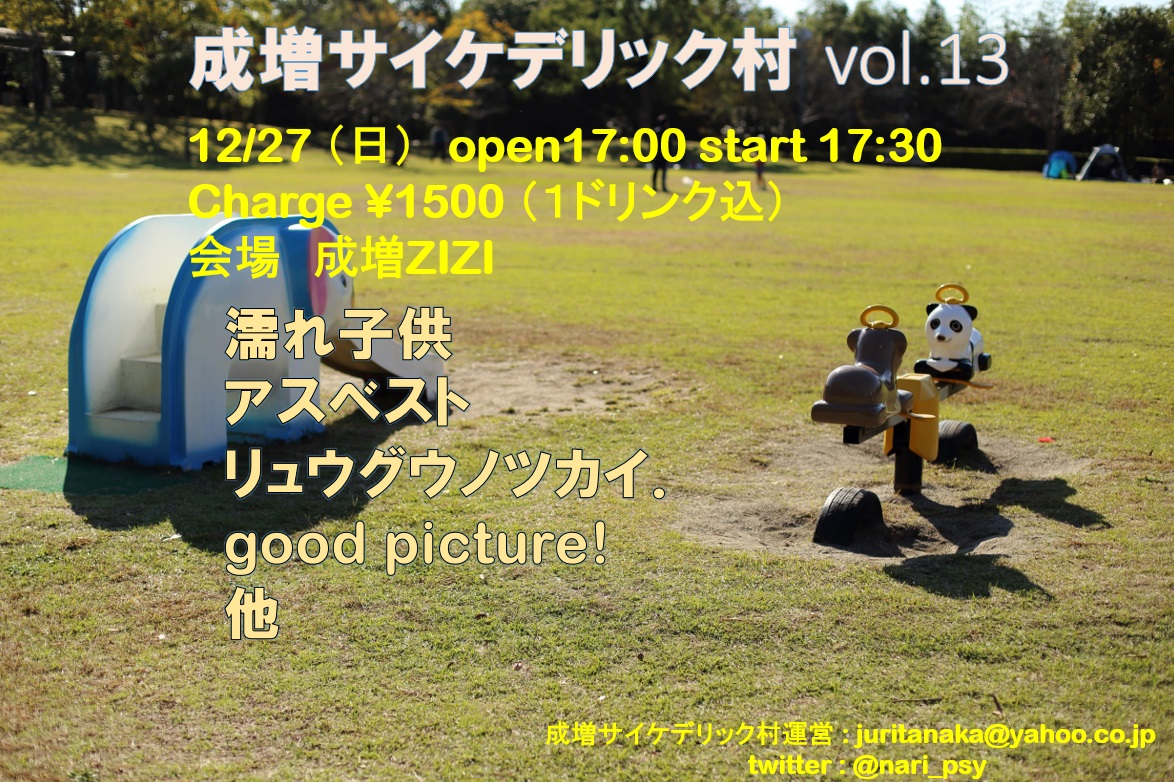
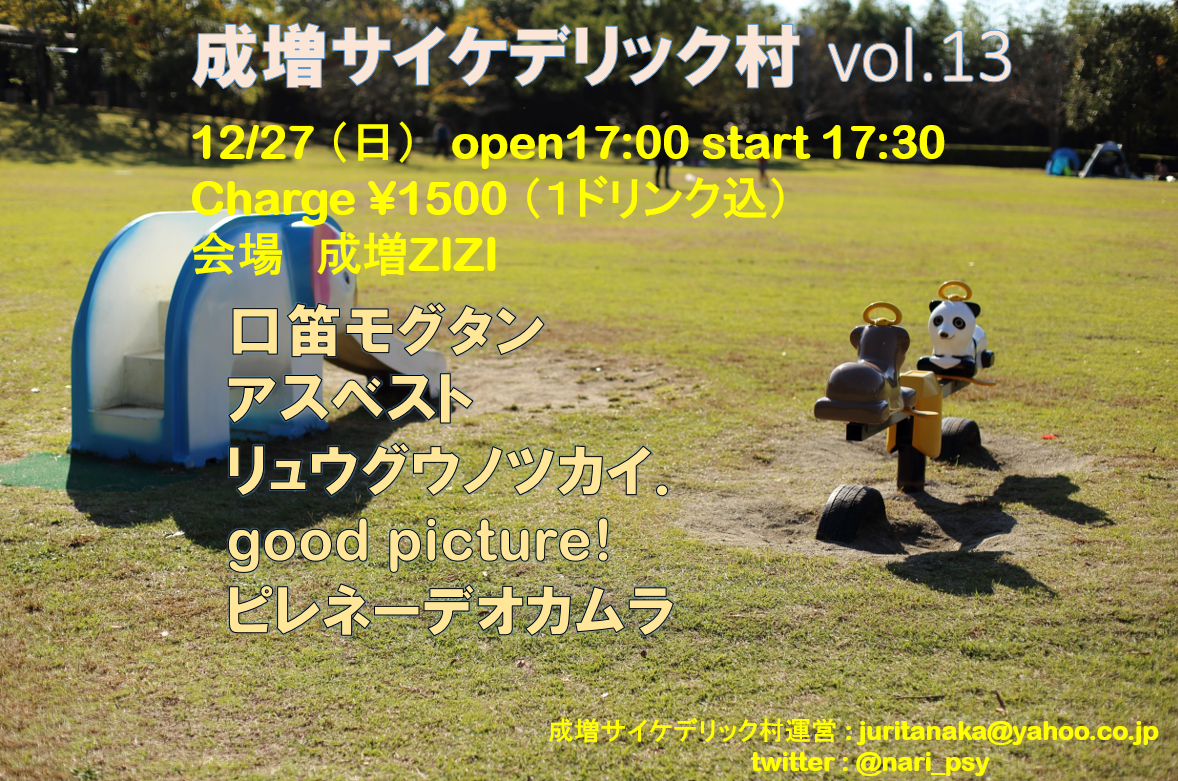
update

diff --git a/np_online.html b/np_online.html
@@ -29,13 +29,29 @@
 	各出演者がタイムテーブルに沿ってYouTubeでライブを配信します。<br>
 	情報はtwitterアカウント（<a href="https://twitter.com/nari_psy">@nari_psy</a>）で広告していきます。<br><br>
 	
-	<h2>成増サイケデリック村 オンライン Vol.12</h2>
+	<h2>成増サイケデリック村 オンライン Vol.13</h2>
 	<p>
 		■日時<br>
-		2020年11月22日(日) <br>
+		2021年1月31日(日) <br>
 		<br>
 		■配信URL<br>
-		<a href="https://youtu.be/rT24tYo64MM">https://youtu.be/rT24tYo64MM</a><br>
+		<a href="https://youtu.be/c4XKTjaegqY">https://youtu.be/c4XKTjaegqY</a><br>
+		<br>
+		■料金<br>
+		無料<br>
+		<br>
+		■出演<br>
+		ジェルノ<br>
+		他<br>
+		<br>
+
+	<h2>成増サイケデリック村 オンライン Vol.12</h2>
+	<p>
+		アーカイブされた放送動画が視聴可能です<br>
+		<iframe width="1280" height="720" src="https://www.youtube.com/embed/rT24tYo64MM" frameborder="0" allow="accelerometer; autoplay; clipboard-write; encrypted-media; gyroscope; picture-in-picture" allowfullscreen></iframe>
+		<br>
+		■日時<br>
+		2020年11月22日(日) <br>
 		<br>
 		■料金<br>
 		無料<br>

diff --git a/index.html b/index.html
@@ -36,11 +36,11 @@
     </p>
     <p>
     出演<br>
-    濡れ子供<br>
+    口笛モグタン<br>
     アスベスト<br>
     リュウグウノツカイ.<br>
     good picture!<br>
-    他<br>
+    ピレネーデオカムラ<br>
     </p>
     <img src="images/np_013.jpg" alt="knp_005" title="knp_005">
     <br>
